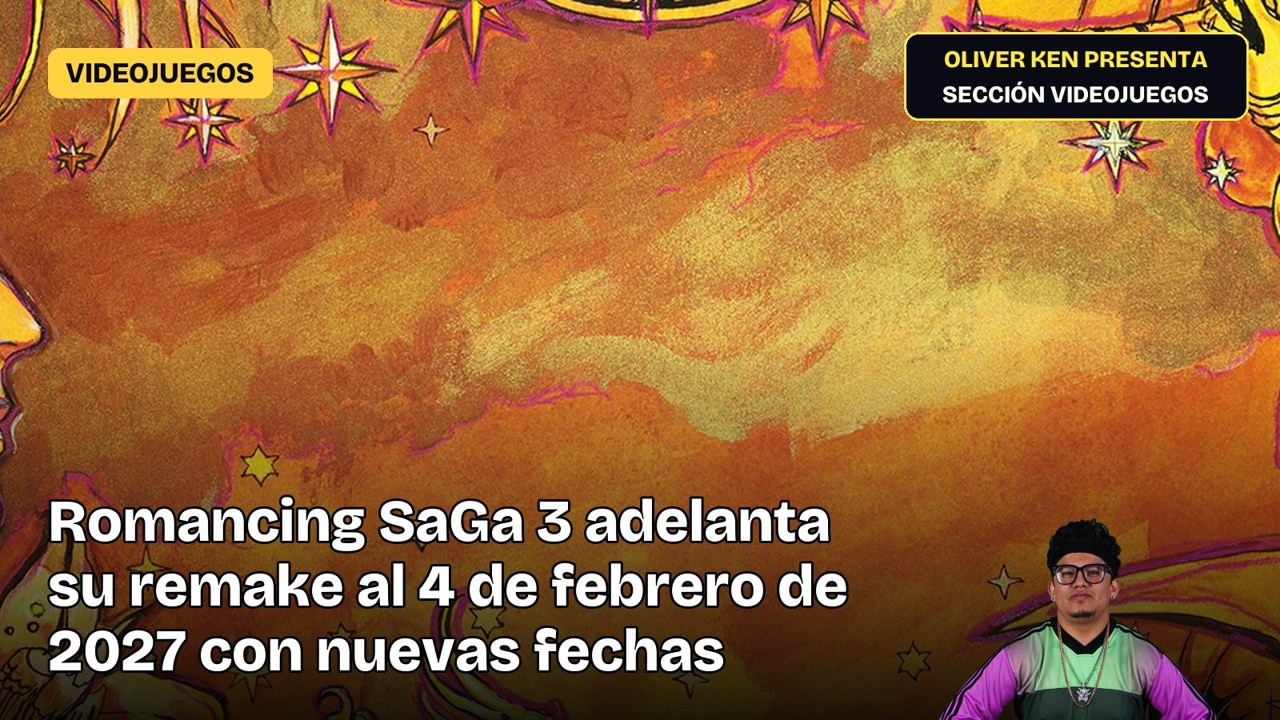
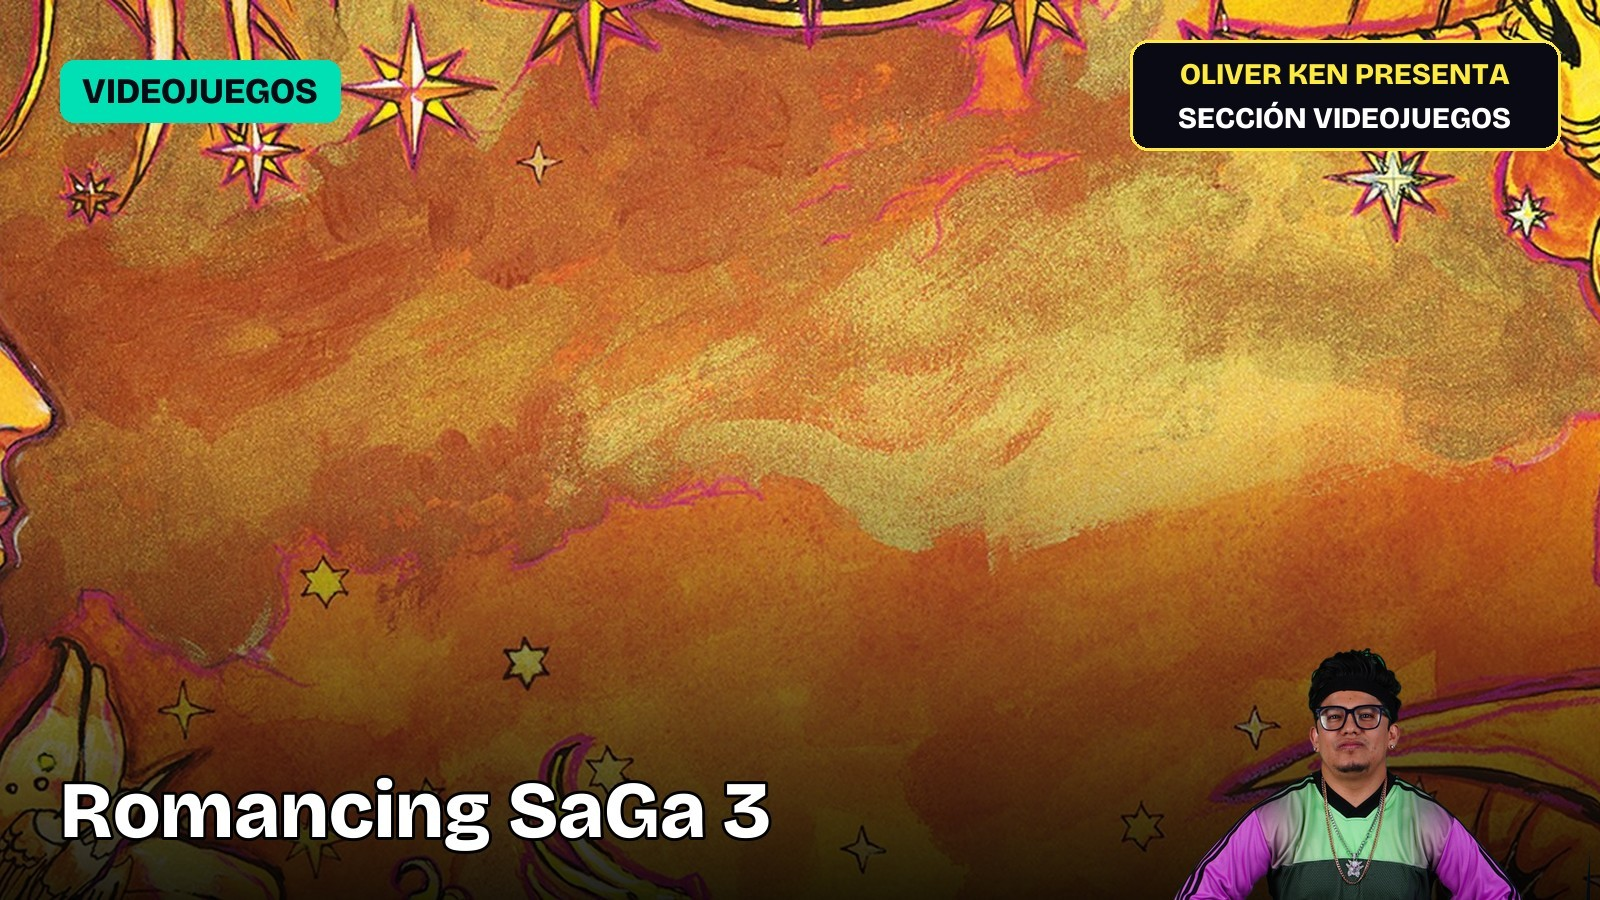
[bot] Portada — 2026-11-13 08:53

Changed region(s): [[0.0312, 0.6722, 0.6875, 0.9472], [0.0312, 0.0611, 0.2188, 0.1528]]

diff --git a/notas/romancing-saga-3-destinies-united-se-estrena-en-febrero-2027-1113.html b/notas/romancing-saga-3-destinies-united-se-estrena-en-febrero-2027-1113.html
@@ -10,8 +10,8 @@
 <meta name="twitter:description" content="Square Enix adelantó el lanzamiento de Romancing SaGa 3: Destinies United al 4 de febrero de 2027…"><meta name="twitter:image" content="https://enelensayomedia.com/img/notas/romancing-saga-3-destinies-united-se-estrena-en-febrero-2027-1113.jpg">
 <link href="https://fonts.googleapis.com/css2?family=Manrope:wght@400;600;800&family=Space+Mono:wght@400;700&display=swap" rel="stylesheet">
 <link rel="alternate" type="application/rss+xml" title="En El Ensayo Media" href="https://enelensayomedia.com/feed.xml">
-<script type="application/ld+json">{"@context": "https://schema.org", "@type": "NewsArticle", "headline": "Romancing SaGa 3: Destinies United se estrena en febrero 2027", "description": "Square Enix adelantó el lanzamiento de Romancing SaGa 3: Destinies United al 4 de febrero de 2027…", "datePublished": "2026-11-13T08:53:43", "author": {"@type": "Organization", "name": "En El Ensayo Media"}, "publisher": {"@type": "Organization", "name": "En El Ensayo Media", "url": "https://enelensayomedia.com"}, "image": ["https://enelensayomedia.com/img/notas/romancing-saga-3-destinies-united-se-estrena-en-febrero-2027-1113.jpg"]}</script>
-<script type="application/ld+json">{"@context": "https://schema.org", "@type": "BreadcrumbList", "itemListElement": [{"@type": "ListItem", "position": 1, "name": "En El Ensayo Media", "item": "https://enelensayomedia.com/"}, {"@type": "ListItem", "position": 2, "name": "Reportaje", "item": "https://enelensayomedia.com/noticias.html"}, {"@type": "ListItem", "position": 3, "name": "Romancing SaGa 3: Destinies United se estrena en febrero 2027", "item": "https://enelensayomedia.com/notas/romancing-saga-3-destinies-united-se-estrena-en-febrero-2027-1113.html"}]}</script>
+<script type="application/ld+json">{"@context": "https://schema.org", "@type": "NewsArticle", "headline": "Romancing SaGa 3: Destinies United se estrena en febrero 2027", "description": "Square Enix adelantó el lanzamiento de Romancing SaGa 3: Destinies United al 4 de febrero de 2027…", "datePublished": "2026-11-13T08:53:43", "author": {"@type": "Person", "name": "Oliver Ken"}, "publisher": {"@type": "Organization", "name": "En El Ensayo Media", "url": "https://enelensayomedia.com"}, "image": ["https://enelensayomedia.com/img/notas/romancing-saga-3-destinies-united-se-estrena-en-febrero-2027-1113.jpg"]}</script>
+<script type="application/ld+json">{"@context": "https://schema.org", "@type": "BreadcrumbList", "itemListElement": [{"@type": "ListItem", "position": 1, "name": "En El Ensayo Media", "item": "https://enelensayomedia.com/"}, {"@type": "ListItem", "position": 2, "name": "Videojuegos", "item": "https://enelensayomedia.com/videojuegos.html"}, {"@type": "ListItem", "position": 3, "name": "Romancing SaGa 3: Destinies United se estrena en febrero 2027", "item": "https://enelensayomedia.com/notas/romancing-saga-3-destinies-united-se-estrena-en-febrero-2027-1113.html"}]}</script>
 <style>
 :root{--tinta:#0b0812;--y:#FFEB3B;--i:#673AB7;--linea:#e4e1ea;--mono:'Space Mono',ui-monospace,monospace}
 *{box-sizing:border-box}body{margin:0;background:#fff;color:var(--tinta);font-family:Manrope,system-ui,sans-serif;line-height:1.7}
@@ -64,8 +64,8 @@ article blockquote{font-size:1.3rem;padding-left:16px}.cta{padding:16px}.video.v
 </style><meta name="google-adsense-account" content="ca-pub-5230441592261869"><script async src="https://pagead2.googlesyndication.com/pagead/js/adsbygoogle.js?client=ca-pub-5230441592261869" crossorigin="anonymous"></script><link rel="preconnect" href="https://fonts.gstatic.com" crossorigin><link href="https://fonts.googleapis.com/css2?family=Bricolage+Grotesque:opsz,wght@12..96,500;12..96,700;12..96,800&display=swap" rel="stylesheet"><link rel="manifest" href="/manifest.webmanifest"><meta name="theme-color" content="#0B0812"><link rel="apple-touch-icon" href="/img/icon-192.png"><link rel="stylesheet" href="/css/moderno.css?v=20261101d"></head><body>
 <header class="top"><div class="w"><a class="logo" href="https://enelensayomedia.com">EN EL ENSAYO MEDIA</a><nav><a href="https://enelensayomedia.com/#notas">Notas</a> <a href="https://enelensayomedia.com/#chisme">Chisme</a> <a href="https://enelensayomedia.com/#misterio">Misterio</a> <a href="https://enelensayomedia.com/#deporte">Deporte</a> <a href="https://enelensayomedia.com/#conciertos">Conciertos</a> <a href="https://enelensayomedia.com/#videos">Videos</a> <a href="https://enelensayomedia.com/podcast.html">Podcast</a> <a href="https://enelensayomedia.com/sesiones.html">Sesiones en vivo</a></nav><a class="tg" href="https://t.me/enelensayomedia" target="_blank" rel="noopener">Únete en Telegram</a></div></header>
 <div data-slot="cabecera" class="w" style="padding:8px 20px 0"></div>
-<div class="cabecera"><div class="w"><a class="kicker" href="https://enelensayomedia.com/noticias.html">Reportaje</a><h1>Romancing SaGa 3: Destinies United se estrena en febrero 2027</h1>
-<p class="dek">Square Enix adelantó el lanzamiento de Romancing SaGa 3: Destinies United al 4 de febrero de 2027, anticipándolo 12 días respecto a la fecha original del 16 de febrero.</p><div class="firma">Por <b>Redacción En el Ensayo Media</b> · 13 de noviembre de 2026 · 08:53</div></div></div>
+<div class="cabecera"><div class="w"><a class="kicker" href="https://enelensayomedia.com/videojuegos.html">Videojuegos</a><h1>Romancing SaGa 3: Destinies United se estrena en febrero 2027</h1>
+<p class="dek">Square Enix adelantó el lanzamiento de Romancing SaGa 3: Destinies United al 4 de febrero de 2027, anticipándolo 12 días respecto a la fecha original del 16 de febrero.</p><div class="firma">Por <b>Oliver Ken</b> · 13 de noviembre de 2026 · 08:53</div></div></div>
 <div class="pagina w"><article>
 <div class="share">Compartir: <a id="x" href="#" target="_blank" rel="noopener">X</a><a id="fb" href="#" target="_blank" rel="noopener">Facebook</a><a id="wa" href="#" target="_blank" rel="noopener">WhatsApp</a><a id="cp" href="#" onclick="return false">Copiar enlace</a></div>
 <figure class="hero"><picture><source type="image/webp" srcset="https://enelensayomedia.com/img/notas/romancing-saga-3-destinies-united-se-estrena-en-febrero-2027-1113.webp"><img src="https://enelensayomedia.com/img/notas/romancing-saga-3-destinies-united-se-estrena-en-febrero-2027-1113.jpg" alt="Romancing SaGa 3: Destinies United se estrena en febrero 2027" decoding="async"></picture><figcaption>Foto: Romancing SaGa 3</figcaption></figure><p>Square Enix adelantó el lanzamiento de Romancing SaGa 3: Destinies United al 4 de febrero de 2027, anticipándolo 12 días respecto a la fecha original del 16 de febrero. El cambio se anunció el 12 de noviembre de 2026. El remake 3D del clásico de 1995 estará disponible en PlayStation 5, Xbox Series X|S, Nintendo Switch, Nintendo Switch 2 y PC. La versión Steam en Asia ajustó su fecha del 17 al 5 de febrero de 2027. Los usuarios de Switch deberán cancelar reservas y volver a reservar debido a los procedimientos de la eShop.</p><h2>Lo confirmado</h2><p>Square Enix adelantó el lanzamiento de Romancing SaGa 3: Destinies United al 4 de febrero de 2027. La fecha anunciada antes era el 16 de febrero de 2027. El cambio se anunció el 12 de noviembre de 2026 y avanza el lanzamiento 12 días. El juego saldrá en PlayStation 5, Xbox Series X|S, Nintendo Switch, Nintendo Switch 2 y PC (Steam y Microsoft Store). En la Steam de Asia, la fecha pasa del 17 de febrero al 5 de febrero de 2027. Por los procedimientos de la Nintendo eShop para cambiar fechas, se cancelarán las reservas existentes en Switch y Switch 2, y los compradores tendrán que volver a reservar. Es un remake 3D completo del juego original de 1995. Se reveló en el Nintendo Direct del 9 de septiembre de 2026. Vandal informó en septiembre de un precio de 69,99 € en consolas y 59,99 € en Steam. Incluye textos en español de España. Ese precio es anterior al cambio de fecha.</p><h2>Lo que hay que recordar</h2><p>Romancing SaGa 3 es un juego de rol desarrollado por Square Enix, lanzado originalmente en 1995 para Super Famicom. Conocido por su sistema de combates por turnos, múltiples historias paralelas y mecánicas innovadoras para su época, el título se convirtió en un referente en la franquicia SaGa. El remake Destinies United, anunciado en septiembre de 2026, representa una reimaginación completa en 3D que preserva la esencia del original mientras moderniza gráficos, audio y jugabilidad. La saga SaGa ha mantenido un perfil discreto en Occidente, pero su reinvención en plataformas actuales busca atraer tanto a veteranos como a nuevos jugadores.</p>
